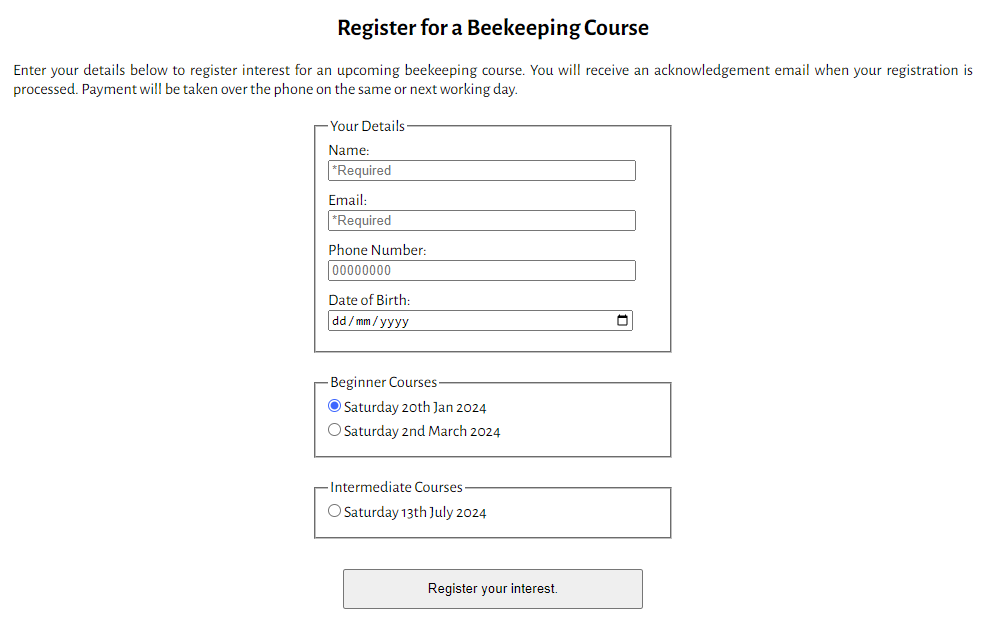
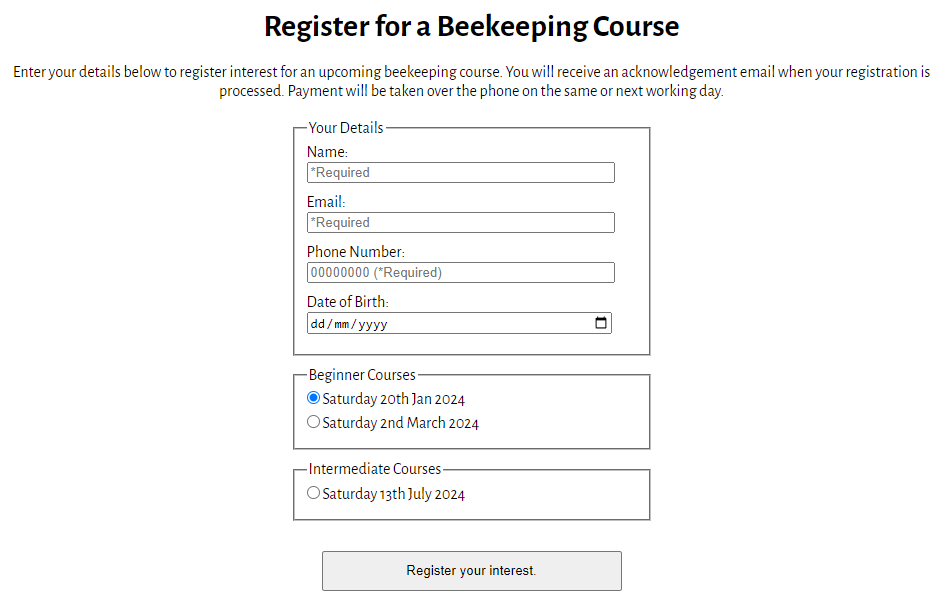
Doc: Update Form page section content in README.

Changed region(s): [[0.0, 0.0298, 0.9748, 0.8642], [0.3351, 0.894, 0.6702, 0.9834]]

diff --git a/README.md b/README.md
@@ -161,6 +161,8 @@ The website is comprised of six pages. Three are accessible from the main naviga
 
 #### The Form page
 - A simple layout seeks only the minimum necessary information from the user. This style of layout is intended to make the user experience straightforward and quick, as very few people want to spend time filling out multiple form fields.
+- All fields have placeholder text denoting that input is required.
+- The phone number field's placeholder text shows the user the expected format of their phone number: All numbers with no spaces or hyphens, and a maximum of ten digits.
 - The input fields only accept the expected type of input; the date of birth field does not allow a user under the age of 18 to register.
 - Radio buttons limit the user to only registering for one available course at a time. The next available beginner course is selected by default.
 - A button underneath the fieldset submits the user's details when clicked; however, it will only allow the user to do so if they have completed all the input fields correctly. If any information is missing or the format is incorrect, the website will direct the user to the problem area.
